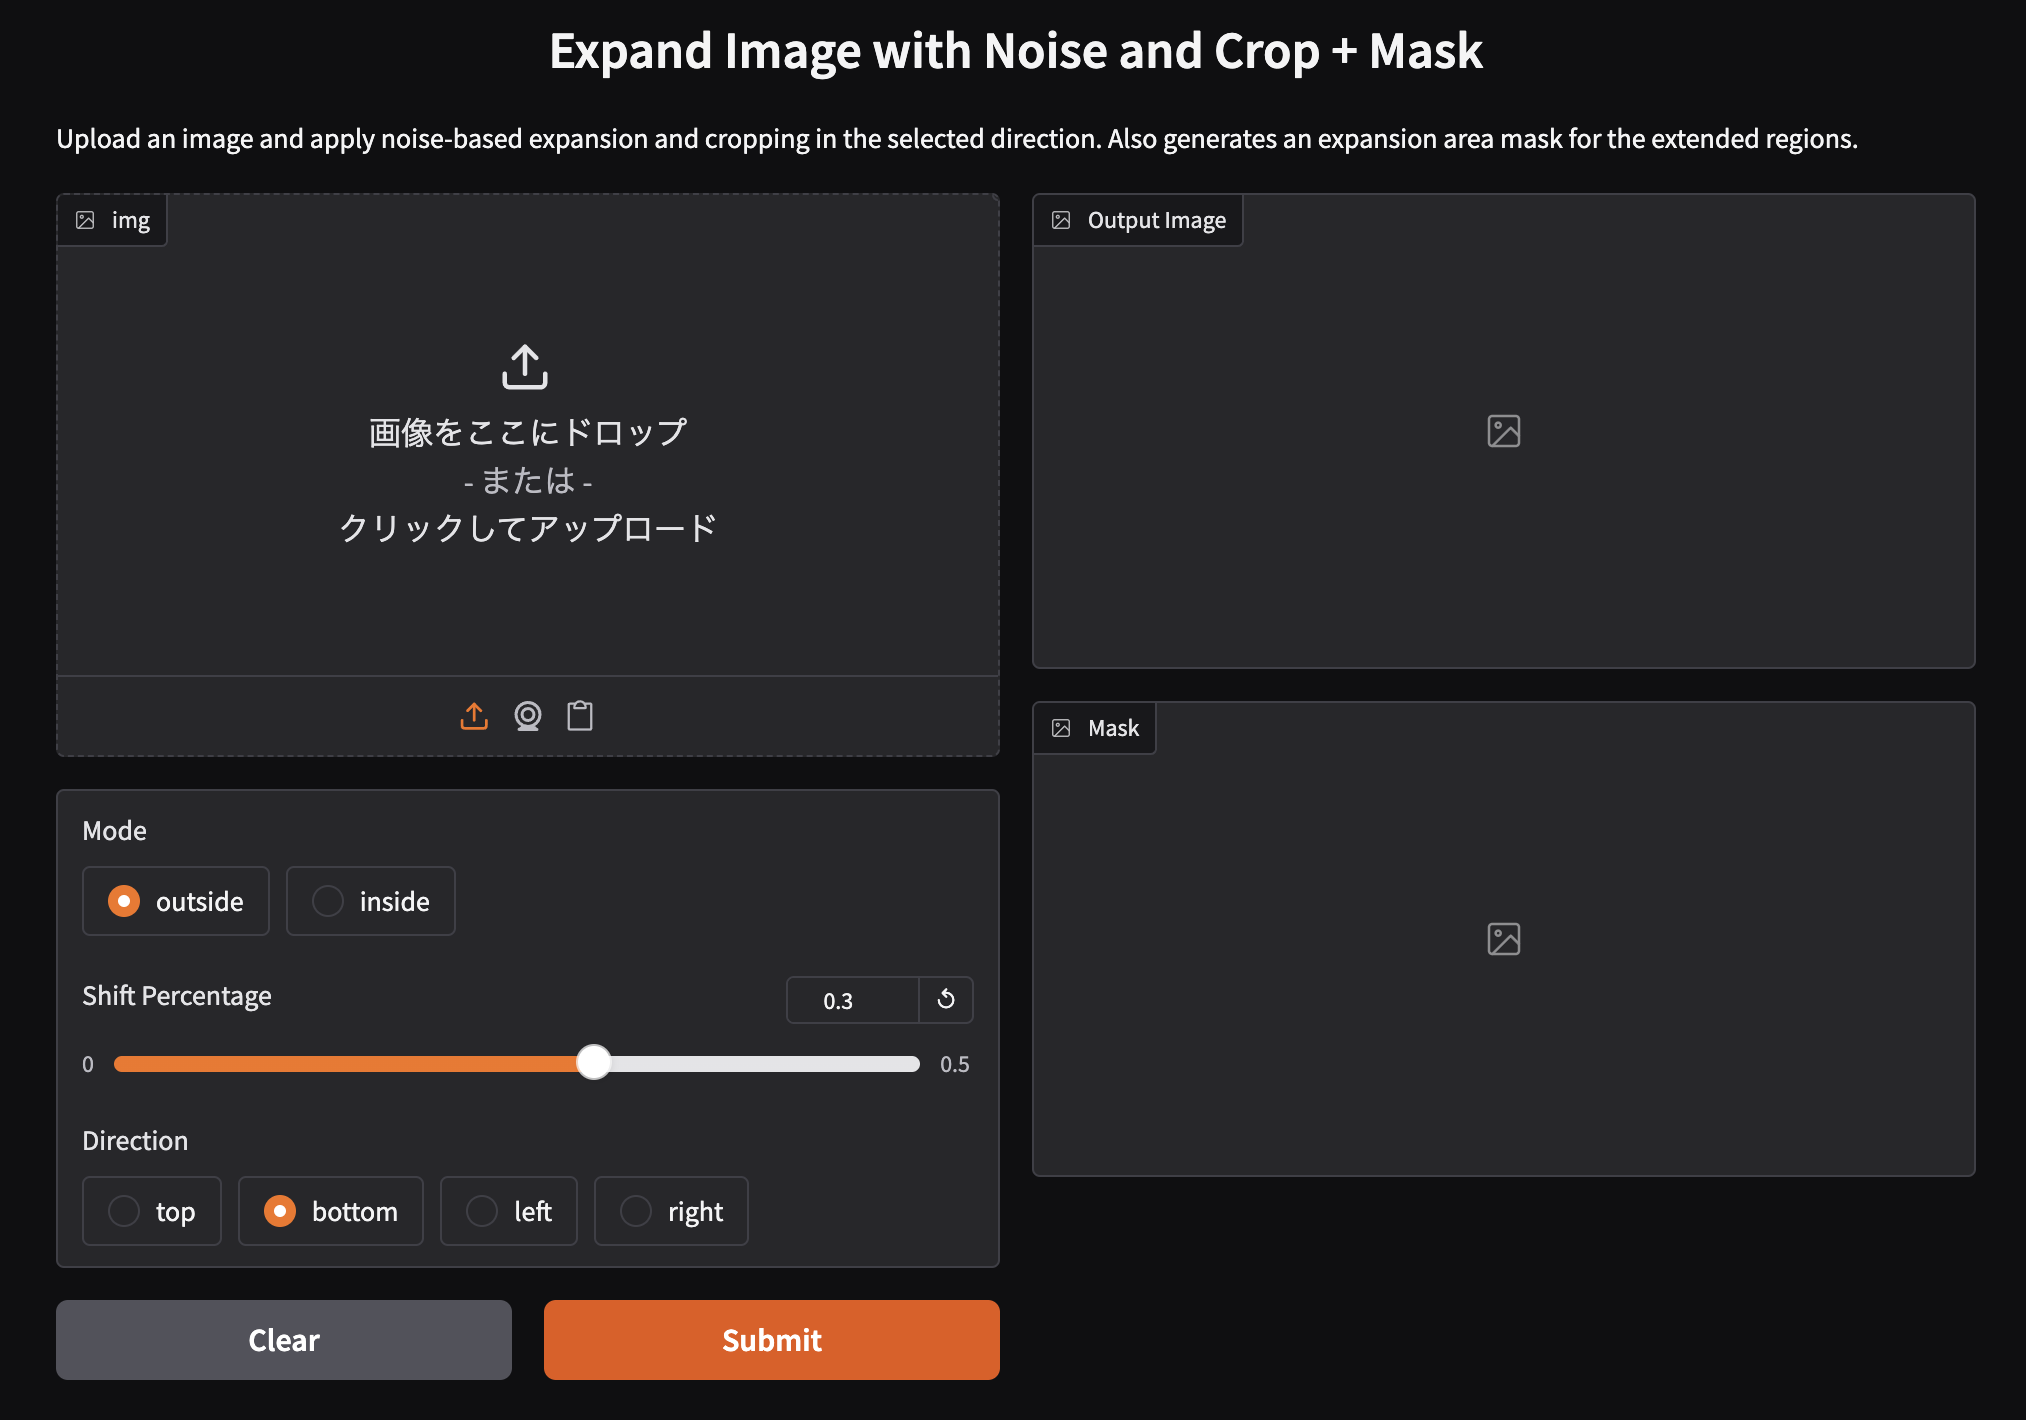
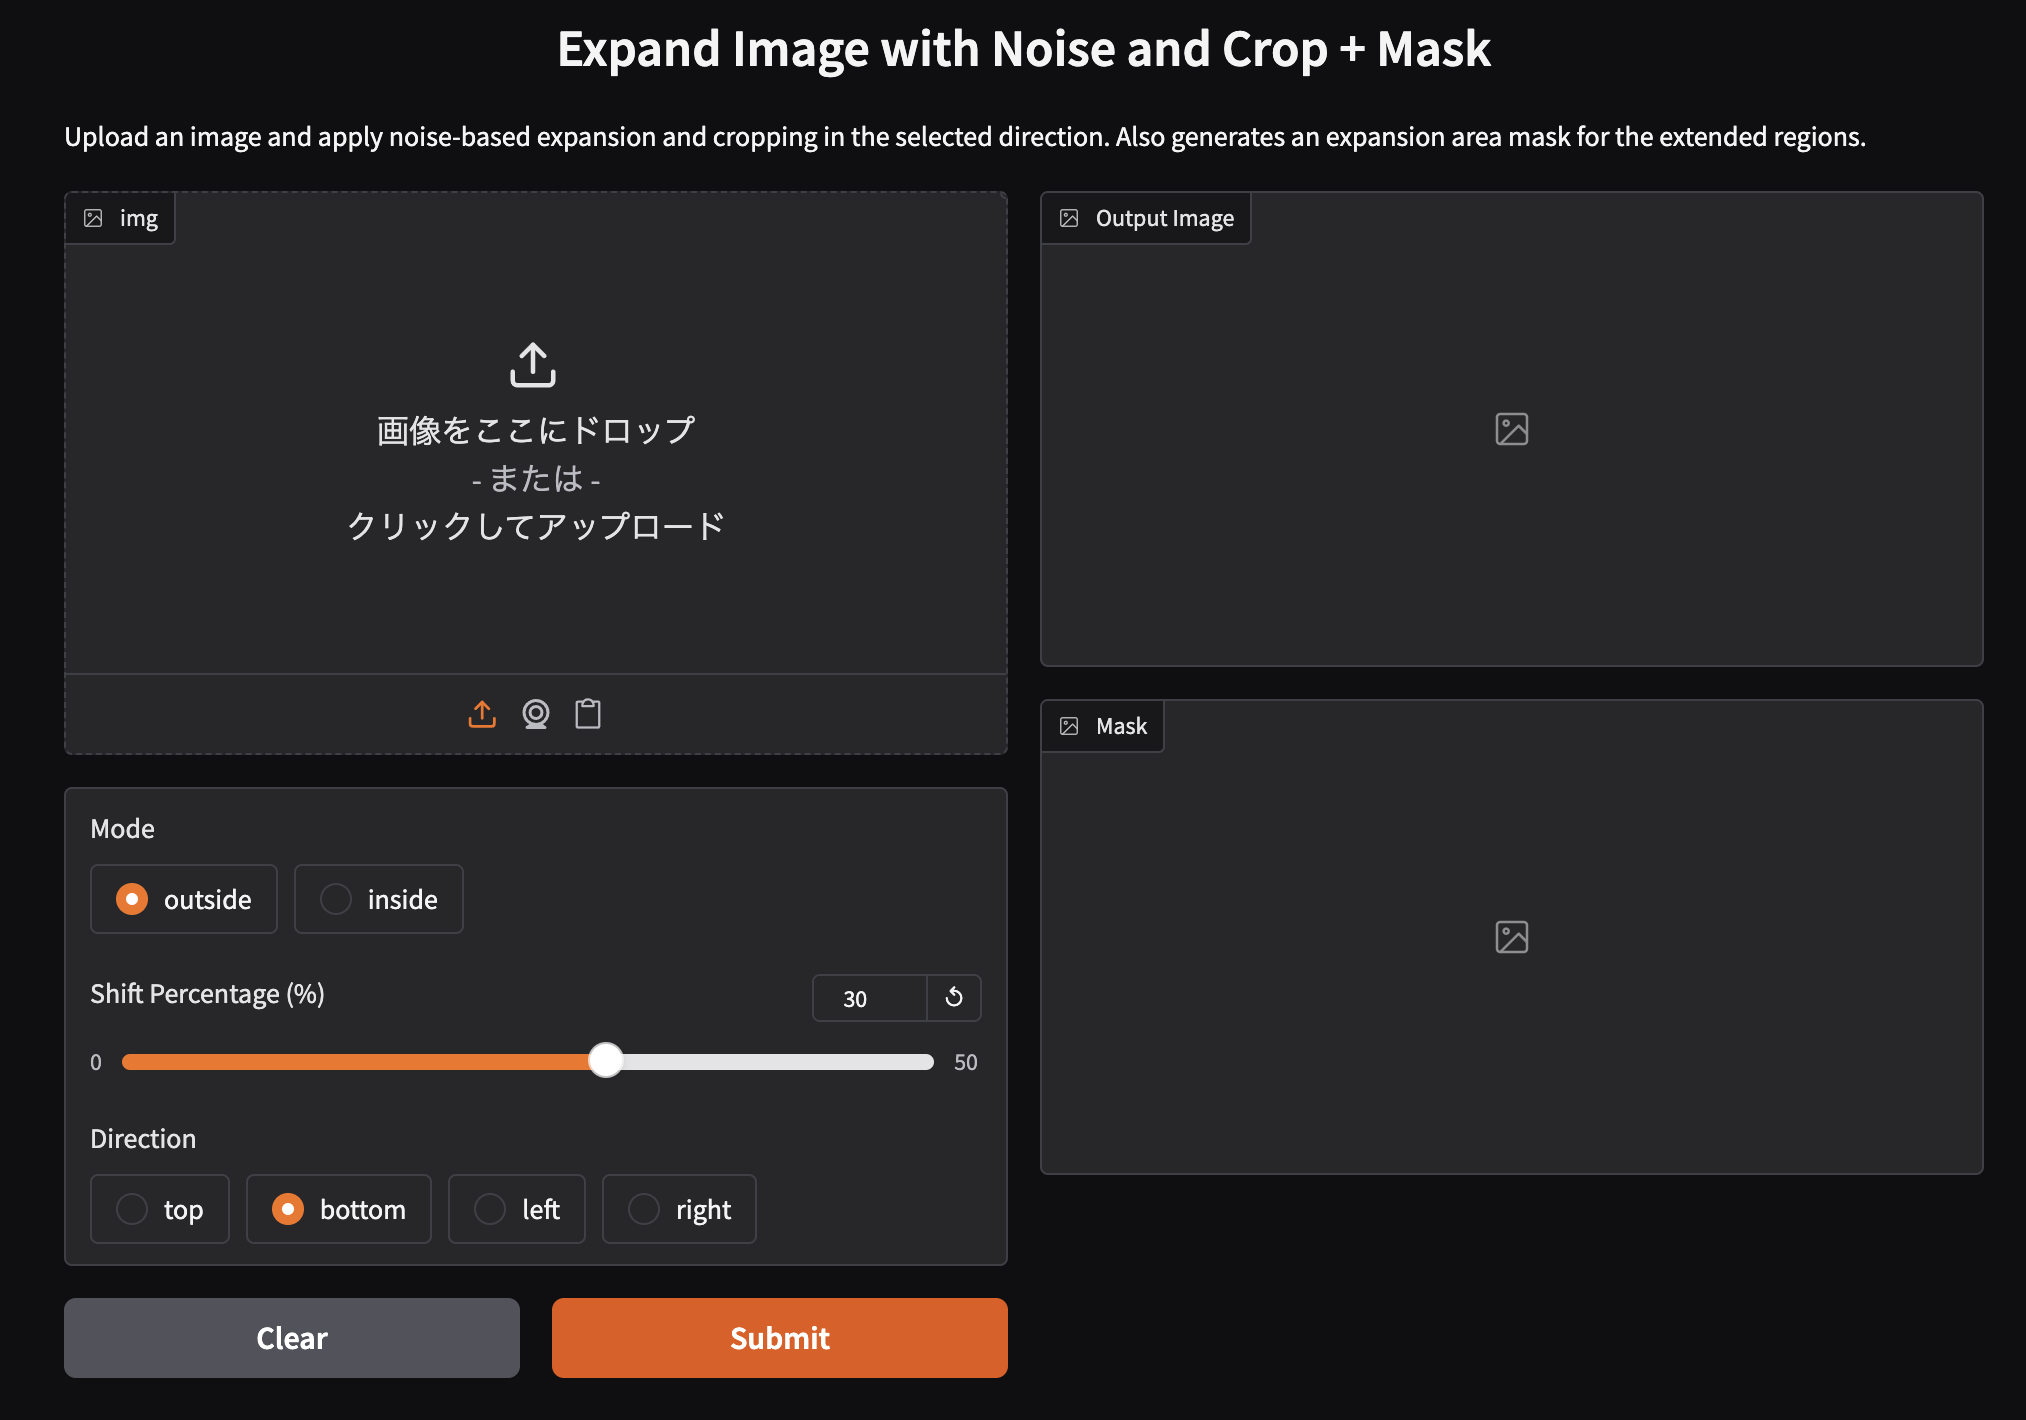
fix: correct shift_pct parameter handling in expand_with_noise_and_crop_gradio function
- Updated shift_pct from a decimal to a percentage value for better usability.
- Adjusted the slider range in the Gradio interface to reflect the new percentage scale.

diff --git a/app.py b/app.py
@@ -2,11 +2,12 @@ import numpy as np
 from PIL import Image
 import gradio as gr
 
-def expand_with_noise_and_crop_gradio(img, mode='outside', shift_pct=0.3, direction='bottom'):
+def expand_with_noise_and_crop_gradio(img, mode='outside', shift_pct=30, direction='bottom'):
     img = img.convert('RGB')
     w, h = img.size
-    shift_w = int(w * shift_pct)
-    shift_h = int(h * shift_pct)
+    shift_pct_decimal = shift_pct / 100.0
+    shift_w = int(w * shift_pct_decimal)
+    shift_h = int(h * shift_pct_decimal)
     noise_strength = 0.1
 
     if mode == 'inside':
@@ -129,7 +130,7 @@ def create_gradio_interface():
         inputs=[
             gr.Image(type="pil"),
             gr.Radio(["outside", "inside"], value="outside", label="Mode"),
-            gr.Slider(0.0, 0.5, value=0.3, label="Shift Percentage"),
+            gr.Slider(0, 50, value=30, step=1, label="Shift Percentage (%)"),
             gr.Radio(["top", "bottom", "left", "right"], value="bottom", label="Direction")
         ],
         outputs=[
